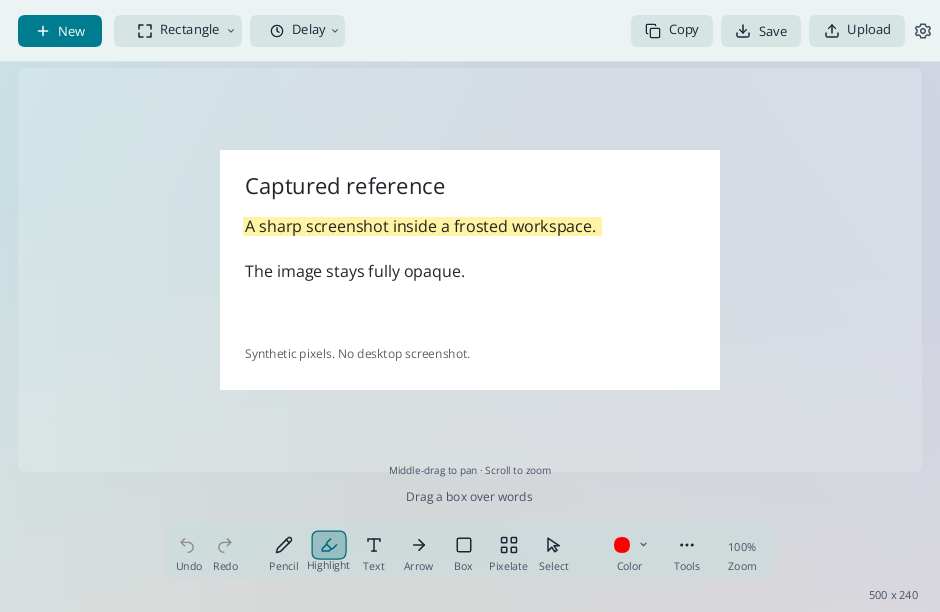
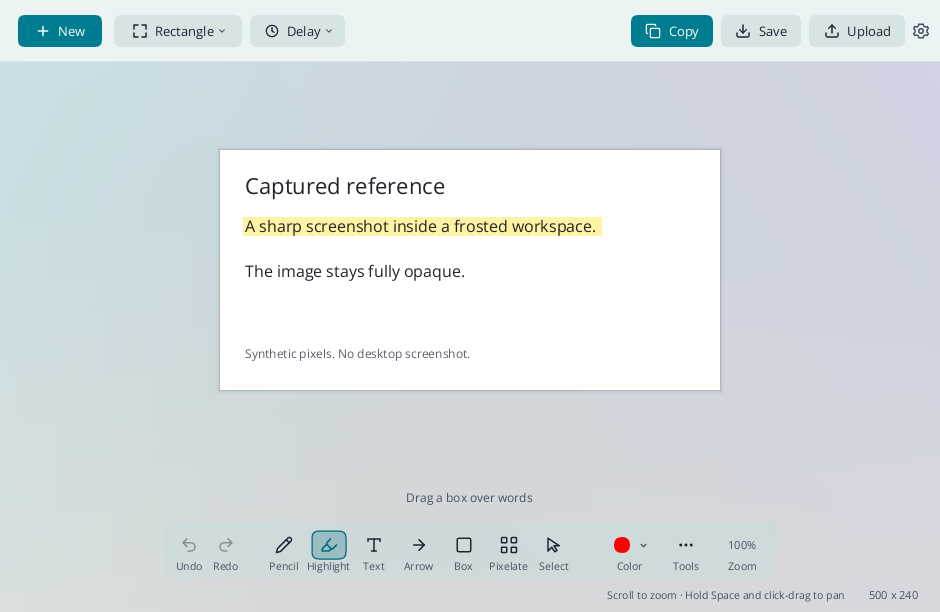
Release Snipping Tool UL 0.3.27 preview
Copy shows whether the clipboard holds the snip as shown; press and drag
Copy to drop the image into another app; snip the same area again with
the capture shortcut plus Alt; the picker shows the selection size; Tools
> Hide private info pixelates emails, long numbers and keys; hold Space
and click-drag to pan. Release to clipboard 41.9 ms vs 49.9 ms for 0.3.26
in an alternating live test. 396 tests pass.

diff --git a/examples/material_preview.rs b/examples/material_preview.rs
@@ -101,6 +101,7 @@ fn main() {
         assert!(ratio >= 4.5, "Body labels must remain readable: {ratio}");
         println!("{name}: secondary text worst-case solid backdrop contrast {ratio:.2}:1");
         let mut home = Model::new(cfg.workflow.clone(), cfg.hotkey.capture.clone());
+        home.repeat_hotkey = snipping_tool_ul::hotkey::repeat_binding(&cfg.hotkey.capture);
         for (menu, label) in [
             (Menu::None, "home"),
             (Menu::Options, "home-options"),

diff --git a/docs/USAGE.md b/docs/USAGE.md
@@ -5,14 +5,18 @@
 - Region, window and full-screen capture; configurable hotkeys and 3/5/10-second timers.
 - UL minimizes its canvas and hides its controls before capture, including before a timer starts. Cancelling a timer restores the previous preview. The tray tooltip and **Capture screenshot** menu show the registered hotkey, including a fallback when the chosen binding is unavailable.
 - Capture freezes a snapshot of the desktop when selection begins. Select from that still image, so advancing video frames or later popups cannot change the resulting snip. With a timer, the snapshot is taken after the countdown. The temporary full-desktop image is released when the selection finishes or is cancelled.
-- Image clipboard output for pasting into chats. Copy updates annotations without closing the preview.
+- Image clipboard output for pasting into chats. Copy updates annotations without closing the preview. The button reads **Copied** while the clipboard still holds the image as shown and **Copy** after an edit or another app's copy.
+- Press **Copy** and drag to drop the image into another app as a PNG file (Explorer, chat, email, browser). A drag that nothing accepts copies instead. On a pinned snip, Ctrl+drag. Drag files are kept in Temp for ten minutes, then removed.
+- **Snip the same area again**: the capture shortcut plus Alt (Ctrl+Shift+Alt+S by default; Shift+PrintScreen if the capture key is PrintScreen), or the tray menu. It captures the previous area directly. If that area is no longer fully on screen, the picker opens.
+- The picker shows the selection's exact size in pixels next to it.
 - After capture and the initial clipboard attempt, the preview opens in front and is ready for editing. It stays hidden during selection; later redraws do not pull focus back from another app.
-- Middle-mouse drag pans the image; pointer-centered wheel zoom scales it. Ctrl+0 resets the view; **Space** recenters and fits the image while Select is active. Export keeps the original resolution.
+- Hold **Space** and click-drag, or middle-mouse drag, to pan the image; pointer-centered wheel zoom scales it. Ctrl+0 resets the view; tapping **Space** recenters and fits the image while Select is active. Export keeps the original resolution.
 - Smooth pencil strokes, arrows, shapes, word highlights, pixelation, text and numbered steps.
 - Draw beyond any image edge to grow the canvas with white space. Moving, resizing or deleting annotations shrinks unused space again, down to the original image size. Undo and redo restore the matching canvas. The image stays steady while drawing; use zoom and middle-mouse pan to reach further. Copy, Save, Upload and Pin include the complete canvas.
 - Live width and size controls: slider, numeric box and minus/plus buttons. Arrowheads scale with width.
 - Text uses Open Sans, with a visible size control. Ordinary scrolling stays zoom.
 - **Select** (V) selects annotations to move, resize or change; it does not pan the image. Click targets keep a consistent screen size at any zoom. Right-click a numbered step to delete it; later steps renumber. Undo restores the whole change.
+- **Tools > Hide private info** pixelates email addresses, phone, card and account numbers, IP addresses and key-like tokens found by Windows' built-in text recognition, as one undo step. It runs only when clicked and never uploads anything. It can miss text the recognizer misreads, so check the result before sharing.
 - Save, OCR, pin on screen, optional history and auto-save. History keeps the last 20 images locally for copying again; it is separate from auto-save. Both are off by default. Enable history in Options > Settings > General > Keep capture history.
 - Light and dark frosted surfaces with a themed native title bar, clear tool labels and hover/focus help.
 
@@ -61,7 +65,7 @@ cargo test --locked
 
 Portable builds remap build-user paths. `-Examples headless_bench` adds the CPU benchmark helper. `cargo run --example editing_preview` and `cargo run --example settings_preview` render actual UI code with synthetic images, without windows, capture, clipboard writes or uploads. Set `SNIPPING_TOOL_UL_CONFIG_DIR` to an isolated test directory.
 
-The release includes bounded native capture, hotkey, clipboard-copy status and zoom checks. External-app pasting, timers, mixed-monitor acceptance and a full interactive memory soak remain open. [Current verification](VERIFICATION-0.3.26.md) separates measured evidence from those gaps.
+The release includes bounded native capture, hotkey, clipboard-copy status and zoom checks. External-app pasting, timers, mixed-monitor acceptance and a full interactive memory soak remain open. [Current verification](VERIFICATION-0.3.27.md) separates measured evidence from those gaps.
 
 This standalone repository derives from MIT-licensed [HydroShot](https://github.com/Real-Fruit-Snacks/HydroShot). Required attribution remains in [LICENSE](../LICENSE) and [third-party notices](../THIRD_PARTY_NOTICES.md). No upstream Git history is included.
 

diff --git a/README.md b/README.md
@@ -14,7 +14,7 @@
 </p>
 
 <p align="center">
-  <a href="https://github.com/finalpantasy/Snipping-Tool-Ultralite/releases/download/v0.3.26-preview/Snipping-Tool-UL-0.3.26-Windows-x64.zip"><b>Download for Windows</b></a>
+  <a href="https://github.com/finalpantasy/Snipping-Tool-Ultralite/releases/download/v0.3.27-preview/Snipping-Tool-UL-0.3.27-Windows-x64.zip"><b>Download for Windows</b></a>
   &nbsp;·&nbsp; <a href="docs/USAGE.md">User guide</a>
   &nbsp;·&nbsp; <a href="CHANGELOG.md">What's new</a>
 </p>
@@ -48,7 +48,9 @@ Flameshot asks which monitor to use before every snip on a PC with more than one
 | Freezes the screen while you choose | Text, numbered steps, blur (pixelate) | Save as a full-quality image |
 | 3, 5 or 10 second timer | Undo, redo, zoom in and out | One-click shareable link |
 | Pick your own shortcut keys | Draw past the edges and the picture grows | Pin a snip on top of other windows |
-| Light and dark mode | Copy the text out of any snip | Optional history and auto-save |
+| Snip the same area again with one shortcut | Hide emails, phone numbers and keys in one click | Drag the snip straight into another app |
+| Exact size shown while you select | Copy the text out of any snip | Optional history and auto-save |
+| Light and dark mode | Hold Space and drag to move around | Copy button shows when the clipboard has your snip |
 
 <details>
 <summary><b>More screenshots</b></summary>
@@ -62,7 +64,7 @@ Flameshot asks which monitor to use before every snip on a PC with more than one
 
 ## Get started in 30 seconds
 
-1. [Download the ZIP](https://github.com/finalpantasy/Snipping-Tool-Ultralite/releases/download/v0.3.26-preview/Snipping-Tool-UL-0.3.26-Windows-x64.zip) and unzip it anywhere.
+1. [Download the ZIP](https://github.com/finalpantasy/Snipping-Tool-Ultralite/releases/download/v0.3.27-preview/Snipping-Tool-UL-0.3.27-Windows-x64.zip) and unzip it anywhere.
 2. Double-click `snipping-tool-ul.exe`.
 3. Press <kbd>Ctrl</kbd>+<kbd>Shift</kbd>+<kbd>S</kbd>, drag over what you want, and paste.
 
@@ -109,7 +111,7 @@ cargo test --locked
 
 ## Status
 
-0.3.26 is a preview release. Not yet verified: monitors with mixed scaling, live uploads to every host, and memory use over very long sessions. [Release checks](docs/VERIFICATION-0.3.26.md)
+0.3.27 is a preview release. Not yet verified: monitors with mixed scaling, live uploads to every host, and memory use over very long sessions. [Release checks](docs/VERIFICATION-0.3.27.md)
 
 Found a bug? [Open an issue](https://github.com/finalpantasy/Snipping-Tool-Ultralite/issues) with your Windows version, display scaling and the steps that cause it.
 

diff --git a/docs/VERIFICATION-0.3.27.md b/docs/VERIFICATION-0.3.27.md
@@ -1,0 +1,12 @@
+# Snipping Tool UL 0.3.27: copy state, drag out, same area again, hide private info
+
+New: the Copy button tracks the clipboard sequence number to show whether the clipboard still holds the image as shown; press-and-drag on Copy (or Ctrl+drag on a pin) drops the image as a PNG through the shell's own drag and drop; a repeat shortcut (capture shortcut plus Alt) captures the previous area directly; the picker shows the selection size; Tools > Hide private info pixelates emails, long numbers, IP addresses and key-like tokens found by Windows OCR as one undo step; Space+click-drag pans.
+
+## Verification
+
+- 396 locked all-target automated tests pass, including headless tests for clipboard state, the repeat shortcut (every capture-shortcut shape, never a Windows combination), size-label placement, drag-file naming and cleanup, the redaction rules (sample text that must and must not be hidden, 2,000 random OCR lines) and the editor drawn at extreme zoom in windows down to 1 x 1. Clippy reports the same warning count as 0.3.26.
+- Five independent code reviews by area (editor input, hotkeys and capture, clipboard and drag-out, OCR and redaction, rendering and timers) plus three follow-up reviews; every confirmed finding was fixed before release.
+- Hidden-desktop presentation probe: 60 open and close cycles in both themes on a private desktop; memory growth identical to 0.3.26.
+- Live tests on Windows 11 with three 4K monitors at 150%, nobody using the PC, alternating 0.3.26 and this build in 3 blocks of 15 snips: release to clipboard 41.9 ms vs 49.9 ms, hotkey to selection screen 124 ms vs 125 ms, release to editor 109 ms vs 109 ms, peak working set 202 MB for both. All 90 snips pixel-exact.
+- Not verified natively: dragging into specific apps, Space panning, the tray item and Hide private info on real screenshots have no automated coverage and were only tried by hand on one PC; mixed-scaling monitors remain untested.
+- Remapped Windows build, formatting, source and package identity scans and archive-entry hashes checked before publication.

diff --git a/CHANGELOG.md b/CHANGELOG.md
@@ -1,5 +1,16 @@
 # Changelog
 
+## 0.3.27 preview
+
+- **Copy knows what is on the clipboard.** The button says *Copied* while the clipboard still holds your snip exactly as shown, and turns back into *Copy* after you edit or another app copies something. It flashes briefly when a copy lands.
+- **Drag your snip into other apps.** Press **Copy** and drag into Explorer, a chat or an email to drop the image as a PNG file; a plain click still copies. On a pinned snip, Ctrl+drag does the same.
+- **Snip the same area again** with the capture shortcut plus Alt (Ctrl+Shift+Alt+S by default), or from the tray menu. No picker; if that area is no longer on screen, the picker opens instead. The shortcut never takes a Windows combination such as Alt+F4.
+- **Size while you select.** The picker shows the exact size of your selection in pixels.
+- **Hide private info** (Tools menu): finds email addresses, phone, card and account numbers, IP addresses and key-like tokens with Windows' built-in text recognition and pixelates them in one undoable step. Dates, times, prices and ordinary text are left alone. Check the result before sharing.
+- **Hold Space and click-drag to pan**, for trackpads without a middle button. Tapping Space still fits the image with the Select tool.
+- Cleaner editor: the snip sits on the frosted workspace with a thin edge and soft shadow, there is one hint line instead of two, and navigation help moved to the status row. The home window hides Upload until there is something to upload.
+- The image reaches the clipboard sooner: 42 ms instead of 50 ms in a live test on three 4K monitors.
+
 ## 0.3.26 preview
 
 - Faster snips: the screen is captured once and drawn as it is, and only the area you select is converted. In a live test on three 4K monitors, the selection screen appeared in 141 ms instead of 241 ms, and the image reached the clipboard in 54 ms instead of 83 ms, on the same busy PC.

diff --git a/docs/PERFORMANCE.md b/docs/PERFORMANCE.md
@@ -2,7 +2,7 @@
 
 Component measurements from October 12-13, 2026, and capture, startup and memory comparisons with Microsoft's Snipping Tool, ShareX, Greenshot and Flameshot from October 14, 2026.
 
-[Download and overview](../README.md) | [Release verification](VERIFICATION-0.3.26.md)
+[Download and overview](../README.md) | [Release verification](VERIFICATION-0.3.27.md)
 
 ## Results at a glance
 
